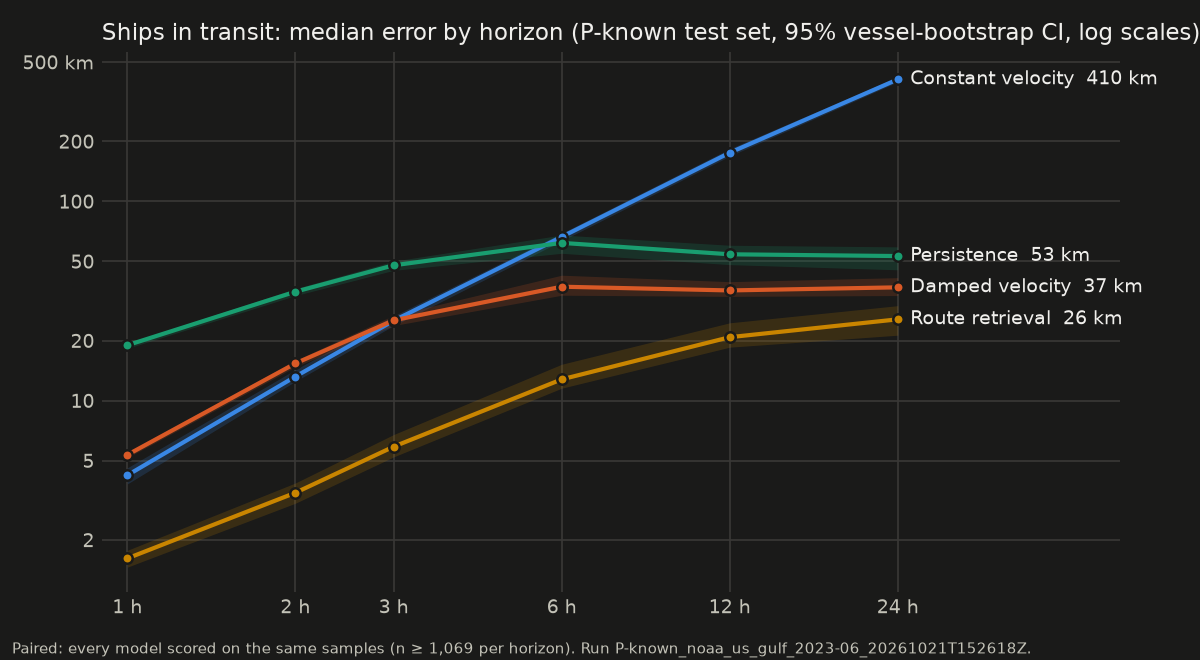
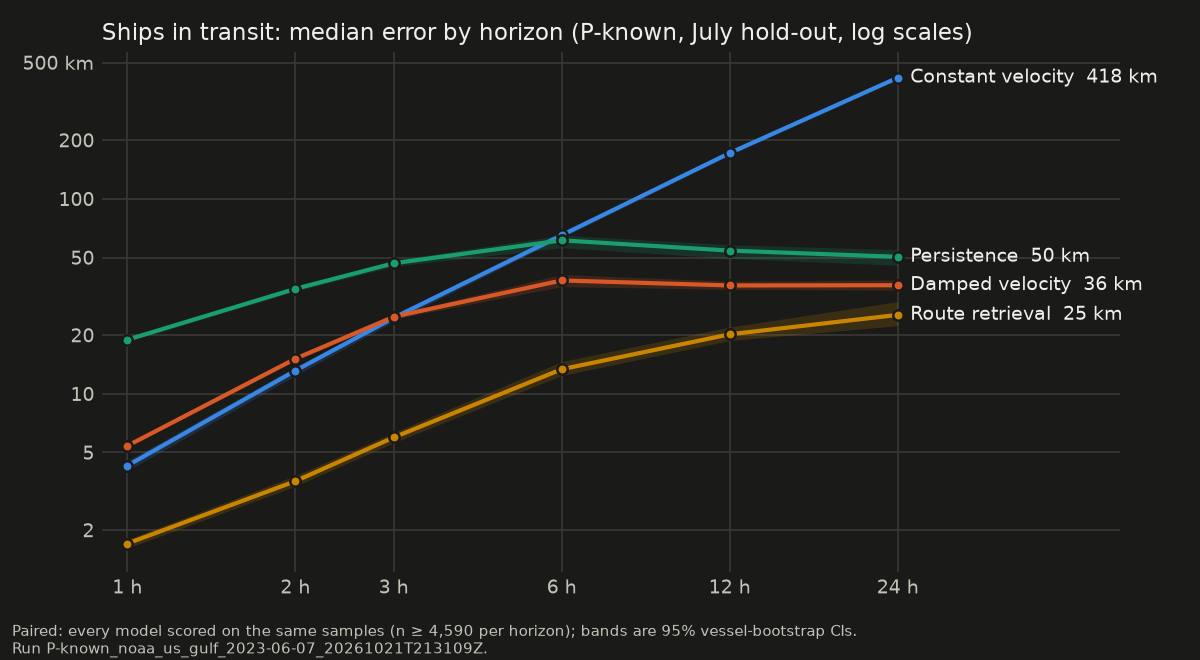
July hold-out scored once; README results from it
- P-known and P-unseen July test runs (baselines, route_retrieval_v1, v2),
  scored once from clean 2757bd3 with --confirm-test; test-access ledger
  committed. Transiting: retrieval beats the best baseline at every horizon
  under both protocols (CIs exclude 0); pooled underway loses at 24 h
  (P-known) and 12-24 h (P-unseen); stationary v2 = persistence.
- README results, figures (July P-known run; map example chosen by a fixed
  rule) and roadmap; benchmarks, failure review, log, CLAUDE.md status.

diff --git a/scripts/make_readme_figures.py b/scripts/make_readme_figures.py
@@ -38,11 +38,11 @@ from maritime_forecast.models.registry import get_model  # noqa: E402
 from maritime_forecast.storage.parquet_store import ParquetStore  # noqa: E402
 from maritime_forecast.storage.run_store import RunStore  # noqa: E402
 
-DATASET = "noaa_us_gulf_2023-06"
-RUN = "P-known_noaa_us_gulf_2023-06_20261021T152618Z"
-# A transiting tanker at Bolivar Roads, heading up the ship channel. Chosen for the baseline
-# README (before retrieval existed), not picked for retrieval's result.
-EXAMPLE_CUTOFF = 14125
+DATASET = "noaa_us_gulf_2023-06-07"
+RUN = "P-known_noaa_us_gulf_2023-06-07_20261021T213109Z"  # the July hold-out P-known run
+# The example cutoff is chosen by a fixed rule, never by its errors: the transiting tanker
+# cutoff (AIS type 80-89) nearest Bolivar Roads, the channel entrance used for the June README.
+BOLIVAR_ROADS = (29.345, -94.74)
 OUT = REPO_ROOT / "docs" / "img"
 
 # Reference palette (dataviz skill), slots 1-4 in fixed order, validated in both modes (the
@@ -73,7 +73,7 @@ MODELS = [
     ("constant_velocity_v1", "Constant velocity"),
     ("damped_velocity_v1", "Damped velocity"),
     ("persistence_v1", "Persistence"),
-    ("route_retrieval_v1", "Route retrieval"),
+    ("route_retrieval_v2", "Route retrieval"),
 ]
 
 
@@ -89,7 +89,13 @@ def _style(ax, th):
 def example_data():
     store = ParquetStore()
     runs = RunStore()
-    c = runs.table(RUN, "cutoffs").filter(pl.col("cutoff_id") == EXAMPLE_CUTOFF).row(0, named=True)
+    cut = runs.table(RUN, "cutoffs").filter(
+        pl.col("transiting") & (pl.col("vessel_class") == "tanker")
+    )
+    d2 = (pl.col("latitude_deg") - BOLIVAR_ROADS[0]) ** 2 + (
+        (pl.col("longitude_deg") - BOLIVAR_ROADS[1]) * np.cos(np.radians(BOLIVAR_ROADS[0]))
+    ) ** 2
+    c = cut.with_columns(d2=d2).sort("d2", "cutoff_id").row(0, named=True)
     raw = (MANIFEST_DIR / "splits" / f"P-known__{DATASET}.json").read_bytes()
     ctx = ModelContext(
         store=store,
@@ -126,7 +132,7 @@ def forecast_figure(th, name, data):
     keep = np.vstack(
         [
             preds["damped_velocity_v1"],
-            preds["route_retrieval_v1"],
+            preds["route_retrieval_v2"],
             past[["longitude_deg", "latitude_deg"]].to_numpy(),
             future[["longitude_deg", "latitude_deg"]].to_numpy(),
         ]
@@ -205,7 +211,7 @@ def forecast_figure(th, name, data):
         ax.annotate(
             label + off,
             last,
-            xytext=(8, -14) if m == "route_retrieval_v1" else (8, -4 if off else -2),
+            xytext=(8, -14) if m == "route_retrieval_v2" else (8, -4 if off else -2),
             textcoords="offset points",
             color=th["text"],
             fontsize=9,
@@ -237,7 +243,7 @@ def forecast_figure(th, name, data):
     )
     leg.get_frame().set_alpha(0.92)
     fig.suptitle(
-        "A tanker heading up the Houston Ship Channel: 6 h forecasts",
+        "A tanker at the Houston Ship Channel entrance: 6 h forecasts",
         color=th["text"],
         fontsize=11,
         x=0.02,
@@ -248,7 +254,7 @@ def forecast_figure(th, name, data):
         0.012,
         "Dots: 1, 3, 6 h. Hollow rings: the true position then. Shaded: land "
         "in the navigable mask\n(OSM land minus train-split traffic cells). Land © "
-        "OpenStreetMap contributors (ODbL). AIS: NOAA / USCG, June 2023 test period.",
+        "OpenStreetMap contributors (ODbL). AIS: NOAA / USCG, July 2023 held-out test.",
         color=th["text2"],
         fontsize=7,
         va="bottom",
@@ -294,8 +300,7 @@ def error_figure(th, name):
     ax.minorticks_off()
     ax.set_xlim(0.9, 60)
     ax.set_title(
-        "Ships in transit: median error by horizon (P-known test set, 95% vessel-"
-        "bootstrap CI, log scales)",
+        "Ships in transit: median error by horizon (P-known, July hold-out, log scales)",
         color=th["text"],
         fontsize=11,
         loc="left",
@@ -304,11 +309,12 @@ def error_figure(th, name):
     fig.text(
         0.01,
         0.01,
-        f"Paired: every model scored on the same samples (n ≥ {n:,} per horizon). Run {RUN}.",
+        f"Paired: every model scored on the same samples (n ≥ {n:,} per horizon); bands are "
+        f"95% vessel-bootstrap CIs.\nRun {RUN}.",
         color=th["text2"],
         fontsize=7,
     )
-    fig.tight_layout(rect=(0, 0.03, 1, 1))
+    fig.tight_layout(rect=(0, 0.06, 1, 1))
     fig.savefig(OUT / f"error-by-horizon-{name}.png", facecolor=th["surface"])
     plt.close(fig)
 
@@ -364,7 +370,7 @@ def land_figure(th, name):
         loc="left",
     )
     fig.text(
-        0.01, 0.01, f"P-known test set, paired samples. Run {RUN}.", color=th["text2"], fontsize=7
+        0.01, 0.01, f"P-known July hold-out, paired samples. Run {RUN}.", color=th["text2"], fontsize=7
     )
     fig.tight_layout(rect=(0, 0.03, 1, 1))
     fig.savefig(OUT / f"on-land-{name}.png", facecolor=th["surface"])

diff --git a/README.md b/README.md
@@ -4,10 +4,10 @@
 
 <picture>
   <source media="(prefers-color-scheme: dark)" srcset="docs/img/forecast-example-dark.png">
-  <img alt="Map of Galveston Bay and the Houston Ship Channel. A tanker's real track (dotted) follows the winding channel north-west into the river. The route-retrieval forecast follows the channel's bends close to the real track. A constant-velocity forecast runs straight across land, a damped-velocity forecast stops short in the bay, and persistence stays at the cutoff." src="docs/img/forecast-example-light.png" width="720">
+  <img alt="Map of Galveston Bay at Bolivar Roads, the entrance to the Houston Ship Channel. A tanker arriving from the Gulf turns north-west into the channel; its real track (dotted) follows the channel up the bay. The route-retrieval forecast turns with it and follows the channel close to the real track. Constant-velocity and damped-velocity forecasts continue the last heading west across the Bolivar Peninsula, and persistence stays at the cutoff." src="docs/img/forecast-example-light.png" width="720">
 </picture>
 
-*One real cutoff from the June 2023 test set (picked for the baseline README, before retrieval existed). Every model saw only the reports up to the black square. The dotted line is what the ship actually did, withheld until scoring. Straight-line extrapolation crosses land within hours. Route retrieval follows earlier ships' tracks up the channel, but more slowly: at 6 h it is about where the ship really was at 3 h.*
+*One real cutoff from the July 2023 hold-out, chosen by a fixed rule (the transiting tanker cutoff nearest Bolivar Roads), not by its errors. Every model saw only the reports up to the black square. The dotted line is what the ship actually did, withheld until scoring. The kinematic forecasts carry on along the last heading and cross land. Route retrieval follows earlier ships into the channel and stays close to the real track for 6 h.*
 
 ---
 
@@ -59,54 +59,60 @@ flowchart LR
 
 ## Results so far
 
-All numbers come from immutable runs on the June 2023 NOAA test period (Jun 23–30); run ids and checksums are in [docs/benchmarks.md](docs/benchmarks.md). Since then, the June test results have been read for a [failure review](docs/failure-review.md), so they are no longer an untouched hold-out for later models. July 2023 has been fetched as a fresh test period, and the next model comparison will be reported on it.
+Headline numbers come from the **July 2023 hold-out** (Jul 2–30).
+- **Untouched until scored:** no model was designed or tuned on July. Each model version was scored on it once, and the code enforces and logs this (`data/manifests/test_access/`).
+- **Earlier results:** the June test results that shaped the current models are kept in [docs/benchmarks.md](docs/benchmarks.md) with every run id and checksum, and they show the same pattern.
 - **Skill** is the paired reduction in median error against the best of persistence, constant velocity and damped velocity in that cell, with a 95% vessel-bootstrap CI.
 - **Transiting** means cargo, tanker and passenger ships that have been underway for the last 30 minutes.
-- The evaluator itself is calibrated: paper-mode constant velocity gives 4.03 / 9.65 / 16.16 km at 1 / 2 / 3 h, against the published 3.69 / 9.03 / 15.33 km (+9% / +7% / +5%, within the 10% tolerance).
+- **The evaluator itself is calibrated:** paper-mode constant velocity gives 4.03 / 9.65 / 16.16 km at 1 / 2 / 3 h, against the published 3.69 / 9.03 / 15.33 km (+9% / +7% / +5%, within the 10% tolerance).
 
-### Historical-route retrieval beats every baseline for ships under way
+### Historical-route retrieval beats every baseline for ships in transit, on held-out data
 
-`route_retrieval_v1` finds the training-period voyages that passed closest to the ship's current position on a similar course, speed and recent track. It lines them up at the ship and follows the closest match forward. It has no learned parameters, and its references are only voyages completed before the train split ended (Jun 17).
+**How retrieval works.** It finds the training-period voyages that passed closest to the ship's current position on a similar course, speed and recent track. It lines them up at the ship and follows the closest match forward. It has no learned parameters, and it uses only voyages completed before the training period ended (Jun 17).
+- **v2 vs v1:** v2 ([notes](docs/model-integration-notes.md)) differs from v1 in one way. A ship that is moored at the cutoff stays put.
+- **Under way, v1 and v2 are identical.**
 
 <picture>
   <source media="(prefers-color-scheme: dark)" srcset="docs/img/error-by-horizon-dark.png">
-  <img alt="Median error by horizon for ships in transit, log scales. Route retrieval is lowest at every horizon: 1.6 km at 1 h, 5.9 km at 3 h and 26 km at 24 h. Constant velocity is 4.2 km at 1 h and grows to 410 km at 24 h. Damped velocity levels off at about 37 km and persistence at about 53 km." src="docs/img/error-by-horizon-light.png" width="720">
+  <img alt="Median error by horizon for ships in transit on the July hold-out, log scales. Route retrieval is lowest at every horizon: 1.7 km at 1 h, 6.0 km at 3 h and 25 km at 24 h. Constant velocity is 4.3 km at 1 h and grows to 418 km at 24 h. Damped velocity levels off at about 36 km and persistence at about 50 km." src="docs/img/error-by-horizon-light.png" width="720">
 </picture>
 
-Ships in transit, median error in km (best baseline in brackets):
+Ships in transit, July hold-out, median error in km (best baseline in brackets):
 
 | Horizon | P-known retrieval | Best baseline | Skill [95% CI] | P-unseen retrieval | Best baseline | Skill [95% CI] |
 |---|---|---|---|---|---|---|
-| 1 h | **1.6** | 4.2 (CV) | +62% [57, 66] | **1.6** | 5.1 (CV) | +69% [62, 75] |
-| 3 h | **5.9** | 25.2 (CV) | +77% [73, 79] | **7.2** | 24.6 (CV) | +71% [60, 80] |
-| 6 h | **12.8** | 37.3 (damped) | +66% [59, 70] | **16.6** | 33.5 (damped) | +50% [37, 66] |
-| 12 h | **20.8** | 35.8 (damped) | +42% [33, 48] | **23.0** | 32.7 (damped) | +30% [16, 44] |
-| 24 h | **25.6** | 37.1 (damped) | +31% [20, 43] | 33.3 | 32.3 (damped) | −3% [−53, +31], tie |
+| 1 h | **1.7** | 4.3 (CV) | +60% [57, 63] | **2.0** | 4.6 (CV) | +57% [50, 63] |
+| 3 h | **6.0** | 24.5 (CV) | +76% [74, 77] | **7.2** | 24.2 (CV) | +70% [67, 75] |
+| 6 h | **13.4** | 38.2 (damped) | +65% [61, 68] | **16.3** | 40.4 (damped) | +60% [51, 67] |
+| 12 h | **20.2** | 36.0 (damped) | +44% [39, 48] | **21.8** | 38.9 (damped) | +44% [32, 52] |
+| 24 h | **25.4** | 36.1 (damped) | +30% [19, 37] | **24.7** | 38.8 (damped) | +36% [13, 47] |
 
-Where it does **not** win:
+- **Sample sizes:** P-known has 4,590–6,006 paired samples per horizon from about 950 vessels; P-unseen has 781–1,063 from about 185.
+- **P-unseen caveat:** its July test vessels are the same vessels as in June, so the result is fresh in time but not in vessels.
+
+**Where it does not win:**
 - **All underway traffic (mostly tugs and harbour craft):**
-  - P-known: it wins up to 12 h (+64% at 1 h, +17% at 12 h) and ties at 24 h.
-  - P-unseen: it wins up to 3 h (+54% at 1 h), ties at 6–12 h and **loses at 24 h** (−38% [−63, −10]).
-  - Without the vessel's own earlier voyages, long-horizon harbour moves are poorly matched by other ships' tracks.
-- **Moored and anchored vessels:** persistence is better at every horizon. At 24 h retrieval's median is 2.9 km against 0.2 km. A nearby reference ship that later left drags the forecast away. Departure timing is a separate problem.
+  - P-known: wins up to 6 h (+53% at 1 h, +19% at 6 h), ties at 12 h and **loses at 24 h** (−31% [−39, −23] against persistence).
+  - P-unseen: wins up to 3 h, ties at 6 h, and **loses at 12 h (−17%) and 24 h (−44%)**.
+  - Short, irregular harbour jobs are poorly matched by other ships' tracks over a day.
+- **Moored and anchored vessels:**
+  - v1 lost badly here (median 4.4 km against persistence's 0.35 km at 24 h): a nearby ship that later left dragged the forecast away.
+  - v2 holds a moored ship in place, so on these vessels **it is persistence and ties it by construction**. Retrieval does not predict departures.
 - **New waters:** under P-region (train elsewhere in the Gulf, test in Houston), retrieval has no historical route nearby and fails on every cutoff. The kinematic baselines, which need no geography, still work there.
-- **References run out:**
-  - Most historical segments end within hours, when the reference ship leaves receiver coverage.
-  - After that, the forecast holds the reference's last position.
-  - This is why the advantage shrinks with horizon.
+- **References run out:** most historical segments end within hours, when the reference ship leaves receiver coverage. After that the forecast holds the reference's last position, which is why the advantage shrinks with horizon.
 
 <picture>
   <source media="(prefers-color-scheme: dark)" srcset="docs/img/on-land-dark.png">
-  <img alt="Share of underway forecasts that put the ship on land. Constant velocity: 61% at 1 h rising to 88% at 24 h. Damped velocity: about 26–29%. Route retrieval: 9% at 1 h rising to 29% at 24 h. Persistence: about 0%. The mask's own error, measured on the true positions, rises from 1.4% to 8%." src="docs/img/on-land-light.png" width="720">
+  <img alt="Share of underway forecasts on the July hold-out that put the ship on land. Constant velocity: 58% at 1 h rising to 84% at 24 h. Damped velocity: about 24–27%. Route retrieval: 8% at 1 h rising to 30% at 24 h. Persistence: about 0%. The mask's own error, measured on the true positions, rises from 0.5% to 1.6%." src="docs/img/on-land-light.png" width="720">
 </picture>
 
-- **Kinematics leave the channel.** In port, 61% of constant-velocity forecasts are on land within an hour.
-- **Retrieval mostly stays in water:** 9% of its paths have a point on land by 1 h, 29% by 24 h.
-  - Its *path* crossing rate is higher (28% at 1 h): straight 10-minute chords between points cut the bends of narrow channels.
+- **Kinematics leave the channel.** In port, 58% of constant-velocity forecasts are on land within an hour.
+- **Retrieval mostly stays in water:** 8% of its paths have a point on land by 1 h, 30% by 24 h.
+  - Its *path* crossing rate is higher (27% at 1 h): straight 10-minute chords between points cut the bends of narrow channels.
 - **The mask:** the navigable-water mask is OSM land minus water cells that training-period traffic actually used, because OpenStreetMap's land polygons treat the ship channel itself as land.
   - Its own error is measured on the true positions and reported in every cell (dashed line).
 
-The success condition for every model is the same: **beat the best of persistence, constant velocity and damped velocity, per stratum, on paired held-out samples under P-known and P-unseen.** Retrieval meets it for ships in transit (except 24 h under P-unseen, a tie) and for short horizons in all underway traffic. It does not meet it for stationary vessels.
+The success condition for every model is the same: **beat the best of persistence, constant velocity and damped velocity, per stratum, on paired held-out samples under P-known and P-unseen.** Retrieval meets it for ships in transit at every horizon under both protocols, and for all underway traffic up to 3–6 h. It does not meet it for long-horizon harbour traffic. For moored vessels, v2 only ties persistence.
 
 ## Roadmap
 
@@ -115,7 +121,7 @@ The success condition for every model is the same: **beat the best of persistenc
 | 0 | Data spike & coverage audit: what horizons can the data support? | ✓ |
 | 1 | Contracts, data pipeline, read API, track explorer, CI | ✓ |
 | 2 | Baselines & the evaluator: paired benchmark, calibration, invariance, feasibility, benchmark API | ✓ |
-| 3 | Historical-route retrieval: kNN over train-period segments, aligned and continued along real routes ([failure review](docs/failure-review.md)) | ✓ (v2 in development on a dev window; fresh July test pending) |
+| 3 | Historical-route retrieval: kNN over train-period segments, aligned and continued along real routes ([failure review](docs/failure-review.md)); v2 holds moored ships; scored on the July hold-out | ✓ |
 | 4 | **Conformal uncertainty:** calibrated displacement radii per stratum | ← next |
 | 5 | Workbench UI: forecast comparison, truth overlay, benchmark dashboard | |
 | 6 | Timestral zero-shot adapter (position, velocity, velocity + retrieved route) | |

diff --git a/docs/implementation-log.md b/docs/implementation-log.md
@@ -1,6 +1,6 @@
 # Implementation log
 
-**Current milestone: 3 — Historical-route retrieval: complete 2026-10-21** (milestone check below). Next: retrieval v2 on the dev window, one July hold-out run, then Milestone 4 (conformal). Milestone 2 completed 2026-10-21 (milestone check below). Milestone 1 completed 2026-10-20. Milestone 0 was completed and reviewed on 2026-10-19.
+**Current milestone: 4 — Conformal uncertainty** (not started). Milestone 3 complete 2026-10-21; retrieval v2 frozen on dev and scored once on the July hold-out (entries below). Milestone 2 completed 2026-10-21 (milestone check below). Milestone 1 completed 2026-10-20. Milestone 0 was completed and reviewed on 2026-10-19.
 
 Append-only. Newest entry last. Use the `/log-progress` skill.
 
@@ -961,3 +961,36 @@ make test   # 285 passed
 **Next step:**
 1. On approval, run the July test for P-known and P-unseen with baselines, v1 and v2, then update the README from those runs (AGENTS.md rule 13).
 2. Then Milestone 4: conformal radii fitted on the calibration split and judged on those July records.
+
+## 2026-10-21 — July hold-out scored once (user approval); README updated from it
+
+**Milestone:** between 3 (complete) and 4.
+**Done:**
+- July test split of `noaa_us_gulf_2023-06-07`, P-known and P-unseen, scored once with every product model, from clean `2757bd3` with `--confirm-test`. Both runs are recorded in the ledger before scoring.
+- The first P-unseen attempt was refused by the clean-tree guard (an uncommitted edit to the figure script). The edit was stashed, P-unseen was re-run from the clean tree, and nothing was scored or logged for the refused attempt.
+- `scripts/make_readme_figures.py` points at the July P-known run and plots v2. The map example is chosen by a fixed rule (the transiting tanker nearest Bolivar Roads), not by its errors. Titles and footers were fixed.
+- README results now rest on the July hold-out (AGENTS.md rule 13), and the losses are stated. `benchmarks.md`, `failure-review.md`.
+
+**Commands run:**
+```bash
+uv run --project backend python scripts/run_benchmark.py --protocol P-known  --dataset-id noaa_us_gulf_2023-06-07 --split test --confirm-test --informed-by <June runs, reviews, dev run>   # 5,152 s
+uv run --project backend python scripts/run_benchmark.py --protocol P-unseen --dataset-id noaa_us_gulf_2023-06-07 --split test --confirm-test --informed-by <same>                             # 1,002 s
+uv run --project backend python scripts/make_readme_figures.py
+```
+
+**Results** (`docs/benchmarks.md`):
+- **`P-known_noaa_us_gulf_2023-06-07_20261021T213109Z`** (106,503 cutoffs):
+  - Transiting skill of v2 is +0.60 / +0.76 / +0.65 / +0.44 / +0.30 at 1 / 3 / 6 / 12 / 24 h, with every CI above 0.
+  - Pooled underway wins to 6 h, ties at 12 h, and loses at 24 h (−0.31).
+  - Stationary: v2 = persistence.
+- **`P-unseen_noaa_us_gulf_2023-06-07_20261021T225730Z`** (23,166 cutoffs):
+  - Transiting +0.57 / +0.70 / +0.60 / +0.44 / +0.36, every CI above 0.
+  - Pooled wins to 3 h, ties at 6 h, and loses at 12 h (−0.17) and 24 h (−0.44).
+- **June to July:** transiting held up. Pooled underway at 24 h went from a June tie to a July loss under P-known.
+
+**Blockers / open questions:** none.
+
+**Next step:** Milestone 4, smallest first slice:
+- split-conformal displacement radii for persistence, damped velocity and v2, per horizon × stratum, fitted on the calibration split (Jun 23–30);
+- empirical coverage measured on the records of the two July runs above (no new July scoring), per stratum and per July week;
+- the API returns radii with their nominal level and calibration-set id.

diff --git a/docs/benchmarks.md b/docs/benchmarks.md
@@ -302,3 +302,36 @@ The baselines need no geography, so they transfer.
   - `…_dev_20261021T201719Z` is a pre-freeze sweep point with `depart_share` 0.5, from a dirty tree.
   - `…_dev_20261021T203429Z` ran before the labelling fixes.
 - **July is still unscored** (no test-access ledger).
+
+## 2026-10-21 — July 2023 hold-out: B0, `route_retrieval_v1`, `route_retrieval_v2` (held-out headline)
+
+Dataset `noaa_us_gulf_2023-06-07`, manifests `splits-v2`, **split = test (Jul 2–30), scored once**, from the clean commit `2757bd3`.
+- **Ledger:** both runs are recorded in `data/manifests/test_access/noaa_us_gulf_2023-06-07.json`, written before scoring.
+- **`informed_by`:** the June runs `P-known_…152618Z` and `P-unseen_…153929Z`, their failure reviews, and the dev run `…_dev_20261021T204207Z`.
+- **Models:** persistence, CV, CTR, damped, v1, v2 (paired). The damped τ is the train-split fit (identical to the June fit).
+- **Refused attempt:** a first P-unseen attempt was refused before scoring by the clean-tree guard (an uncommitted edit to the figure script). Nothing was scored or logged for it.
+
+| | P-known | P-unseen |
+|---|---|---|
+| Run id | `P-known_noaa_us_gulf_2023-06-07_20261021T213109Z` | `P-unseen_noaa_us_gulf_2023-06-07_20261021T225730Z` |
[1 lines of base64/hex data omitted]
+| Cutoffs | 106,503 | 23,166 |
+| Cells | 828 | 756 |
+| Wall time | 5,152 s | 1,002 s |
+
+**Skill of v2 against the best baseline per cell** [95% CI]. v1 is identical on underway cells.
+
+| Stratum | Protocol | 1 h | 3 h | 6 h | 12 h | 24 h |
+|---|---|---|---|---|---|---|
+| Transiting | P-known | +0.60 [0.57, 0.63] | +0.76 [0.74, 0.77] | +0.65 [0.61, 0.68] | +0.44 [0.39, 0.48] | +0.30 [0.19, 0.37] |
+| Transiting | P-unseen | +0.57 [0.50, 0.63] | +0.70 [0.67, 0.75] | +0.60 [0.51, 0.67] | +0.44 [0.32, 0.52] | +0.36 [0.13, 0.47] |
+| Underway pooled | P-known | +0.53 [0.50, 0.56] | +0.44 [0.40, 0.48] | +0.19 [0.13, 0.24] | −0.02 [−0.10, 0.04] | −0.31 [−0.39, −0.23] |
+| Underway pooled | P-unseen | +0.45 [0.37, 0.51] | +0.29 [0.15, 0.40] | +0.06 [−0.08, 0.20] | −0.17 [−0.36, −0.02] | −0.44 [−0.68, −0.24] |
+| Stationary | both | n/a (< 10 m) | n/a | +0.00 (= persistence) | +0.00 | +0.00 |
+
+- **Stationary:** v2 = persistence by construction. v1's stationary skill at 6 / 12 / 24 h is −26.0 / −21.0 / −11.5 under P-known.
+- **Transiting medians, P-known (km):**
+  - v2: 1.71 / 5.97 / 13.36 / 20.19 / 25.40.
+  - Best baseline: CV 4.28 / 24.54, then damped 38.15 / 35.95 / 36.06.
+- **Feasibility, underway pooled, P-known, 1 → 24 h:** a point on land for v2 8.2% → 29.6%, damped 24.2% → 26.9%, CV 58.4% → 83.7%. The mask's own error is 0.5% → 1.6%.
+- **P-unseen:** its July test vessels are the same vessels as in June (same hash buckets), so it is fresh in time, not in vessels.

diff --git a/docs/failure-review.md b/docs/failure-review.md
@@ -113,8 +113,9 @@ Rules:
 1. Any retrieval version developed after this review is designed on the dev window. Its held-out result is the July test.
 2. Benchmarks of such a version record `informed_by` = the two review run ids above. Any June-test result for it is labelled a second look, never held-out.
 3. Gating or hybrids (for example, a fallback for fishing vessels) are adopted only if the dev window shows the same pattern.
-4. These rules are enforced in code (confirmation, clean tree, an access ledger, API refusals); see [evaluation-protocol.md](evaluation-protocol.md#june--july-2023-noaa_us_gulf_2023-06-07-manifests-splits-v2).
-5. **Under P-unseen, July is fresh in time but not in vessels:** its test vessels are the ones this review examined. Any P-unseen July result says so.
+4. **July was scored once on 2026-10-21** for baselines, v1 and v2 (`docs/benchmarks.md`, ledger in `data/manifests/test_access/`). Any later model version gets its own single July run, with this history in `informed_by`.
+5. These rules are enforced in code (confirmation, clean tree, an access ledger, API refusals); see [evaluation-protocol.md](evaluation-protocol.md#june--july-2023-noaa_us_gulf_2023-06-07-manifests-splits-v2).
+6. **Under P-unseen, July is fresh in time but not in vessels:** its test vessels are the ones this review examined. Any P-unseen July result says so.
 
 ## What to try next, in order
 

diff --git a/CLAUDE.md b/CLAUDE.md
@@ -4,7 +4,7 @@ Research workbench for forecasting where an AIS-tracked vessel will be 1 h – 3
 
 ## Where we are
 
-**Current milestone: 3 complete (2026-10-21); next is retrieval v2 on the dev window, then Milestone 4 — conformal uncertainty.** API serves data, forecasts, forecast evaluation and benchmarks (`make api`); minimal web explorer; CI; `make dev` runs both. Baselines B0, `route_retrieval_v1` (P-known, P-unseen, P-region benchmarked; failure review in `docs/failure-review.md`), the paired evaluator, feasibility and calibration are in place. June+July dataset `noaa_us_gulf_2023-06-07`: develop on `SPLIT=dev`; July is an enforced hold-out.
+**Current milestone: 4 — conformal uncertainty** (Milestone 3 complete 2026-10-21; `route_retrieval_v2` frozen on dev and scored once on the July hold-out). API serves data, forecasts, forecast evaluation and benchmarks (`make api`); minimal web explorer; CI; `make dev` runs both. Baselines B0, `route_retrieval_v1` (P-known, P-unseen, P-region benchmarked; failure review in `docs/failure-review.md`), the paired evaluator, feasibility and calibration are in place. June+July dataset `noaa_us_gulf_2023-06-07`: develop on `SPLIT=dev`; July is an enforced hold-out.
 Status, blockers and next step live in [docs/implementation-log.md](docs/implementation-log.md) — read it first, append to it last.
 
 ## Commands
